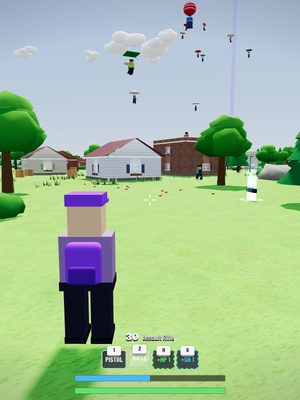
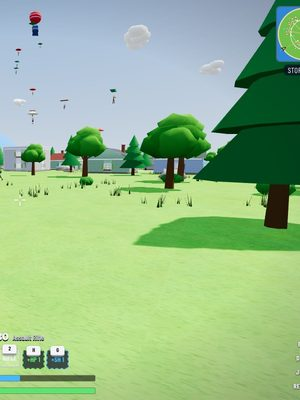
Game Crate: Stormline Royale picture with the new character models
Claude-Session: https://claude.ai/code/session_0176u6d2xcZ9iCUmBQdDJ4du

diff --git a/docs/index.html b/docs/index.html
@@ -916,7 +916,7 @@ let introUp=false;
   for(let r=0;r<rows;r++){
     const row=document.createElement('div');row.className='wrow';
     const order=ids.slice(r*5%ids.length).concat(ids.slice(0,r*5%ids.length));
-    for(const id of order.concat(order)){const im=document.createElement('img');im.src='art/'+id+'.jpg?3';im.loading=r<5?'eager':'lazy';im.alt='';im.decoding='async';row.appendChild(im)}
+    for(const id of order.concat(order)){const im=document.createElement('img');im.src='art/'+id+'.jpg?4';im.loading=r<5?'eager':'lazy';im.alt='';im.decoding='async';row.appendChild(im)}
     W.appendChild(row);
   }
   it.hidden=false;
@@ -969,7 +969,7 @@ function tagsOf(g){
   const D=DATES[g.id],WEEK=7*864e5,now=Date.now();if(!D)return{isNew:false,isUpd:false};
   return{isNew:now-Date.parse(D[0])<WEEK,isUpd:D[1]!==D[0]&&now-Date.parse(D[1])<WEEK};
 }
-const art=id=>'art/'+id+'.jpg?3',thumb=id=>'art/t/'+id+'.jpg?3';
+const art=id=>'art/'+id+'.jpg?4',thumb=id=>'art/t/'+id+'.jpg?4';
 
 let last=null;try{last=localStorage.getItem(LAST)}catch(e){}
 const carts={};
@@ -1514,7 +1514,7 @@ function launch(g,cart){
 <script>
 /* Game Crate: home-screen apps can't refresh, so check for a newer version of this page and load it */
 (function(){
-  var V='2026-10-17-crate16';
+  var V='2026-10-17-crate17';
   function check(){
     if(window.__maxcade)return;
     fetch('./?check='+Date.now(),{cache:'no-store'}).then(function(r){return r.ok?r.text():''}).then(function(t){
